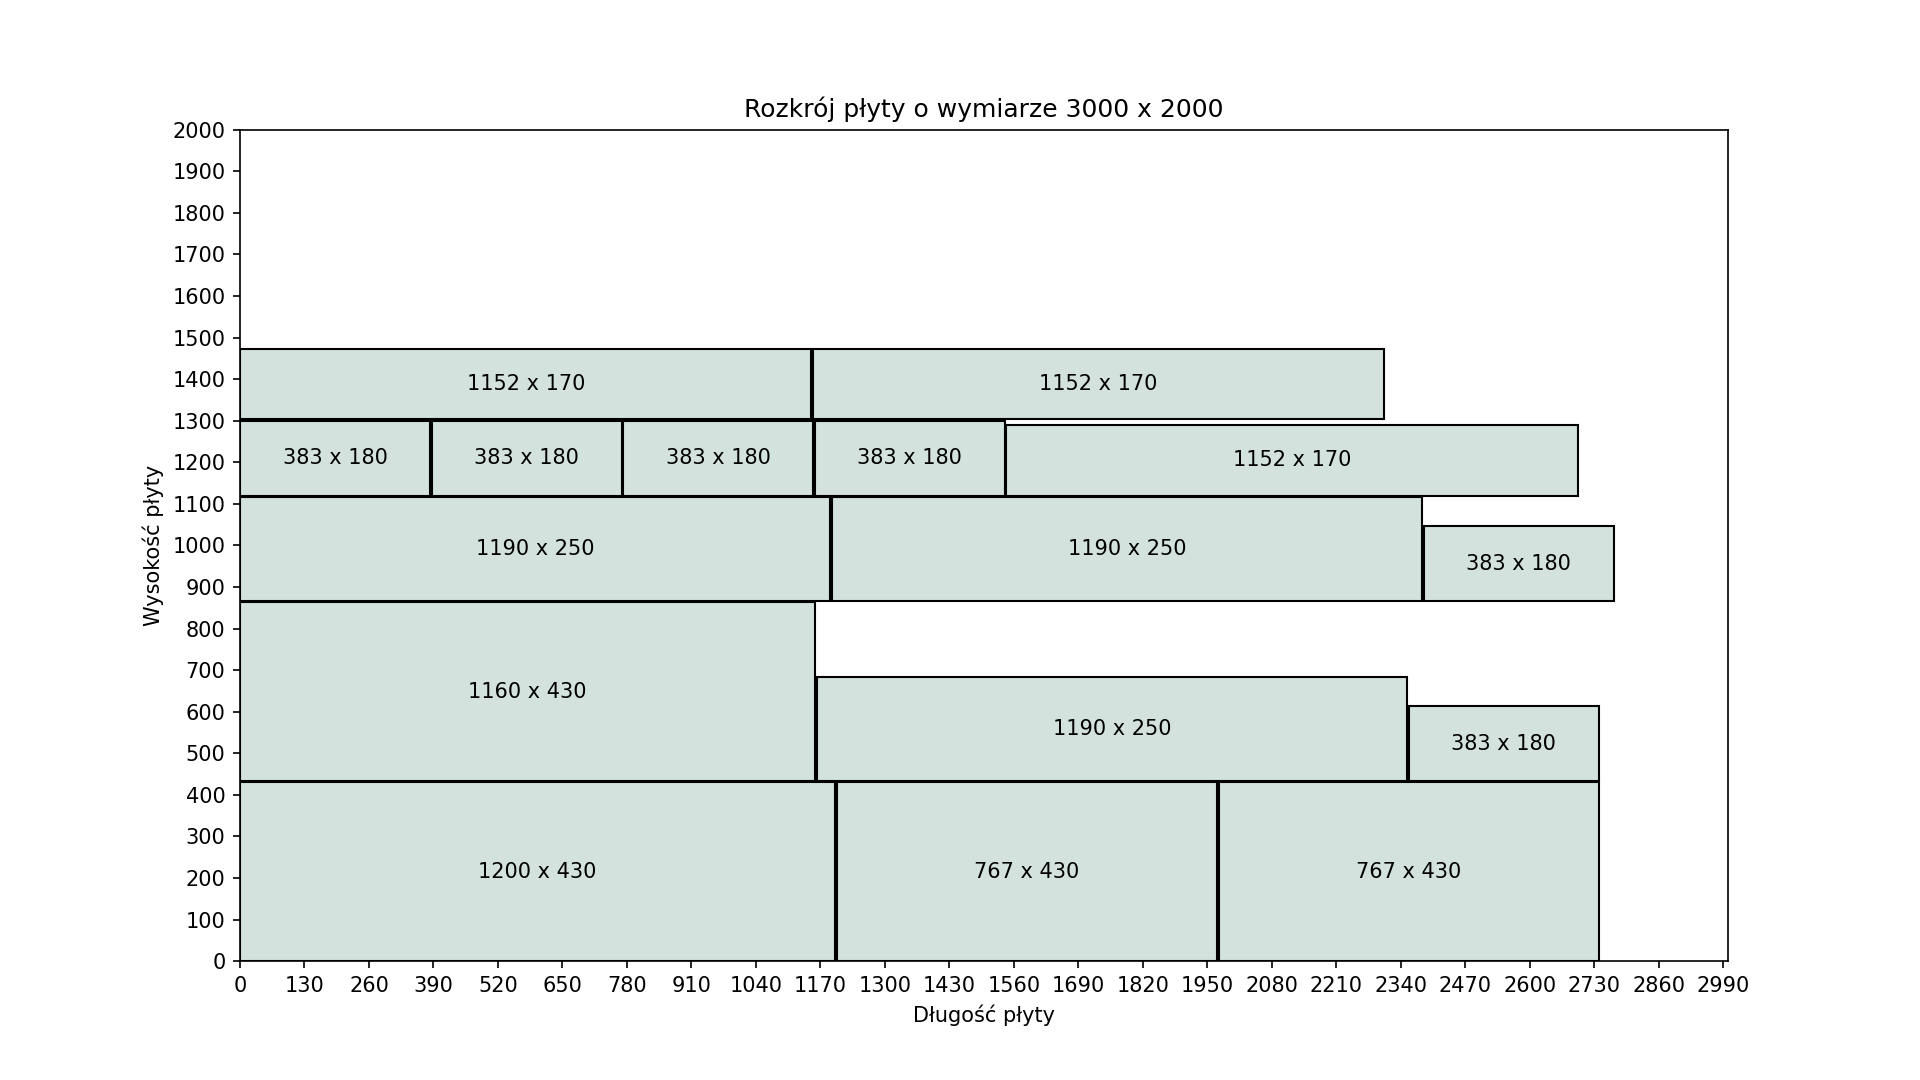
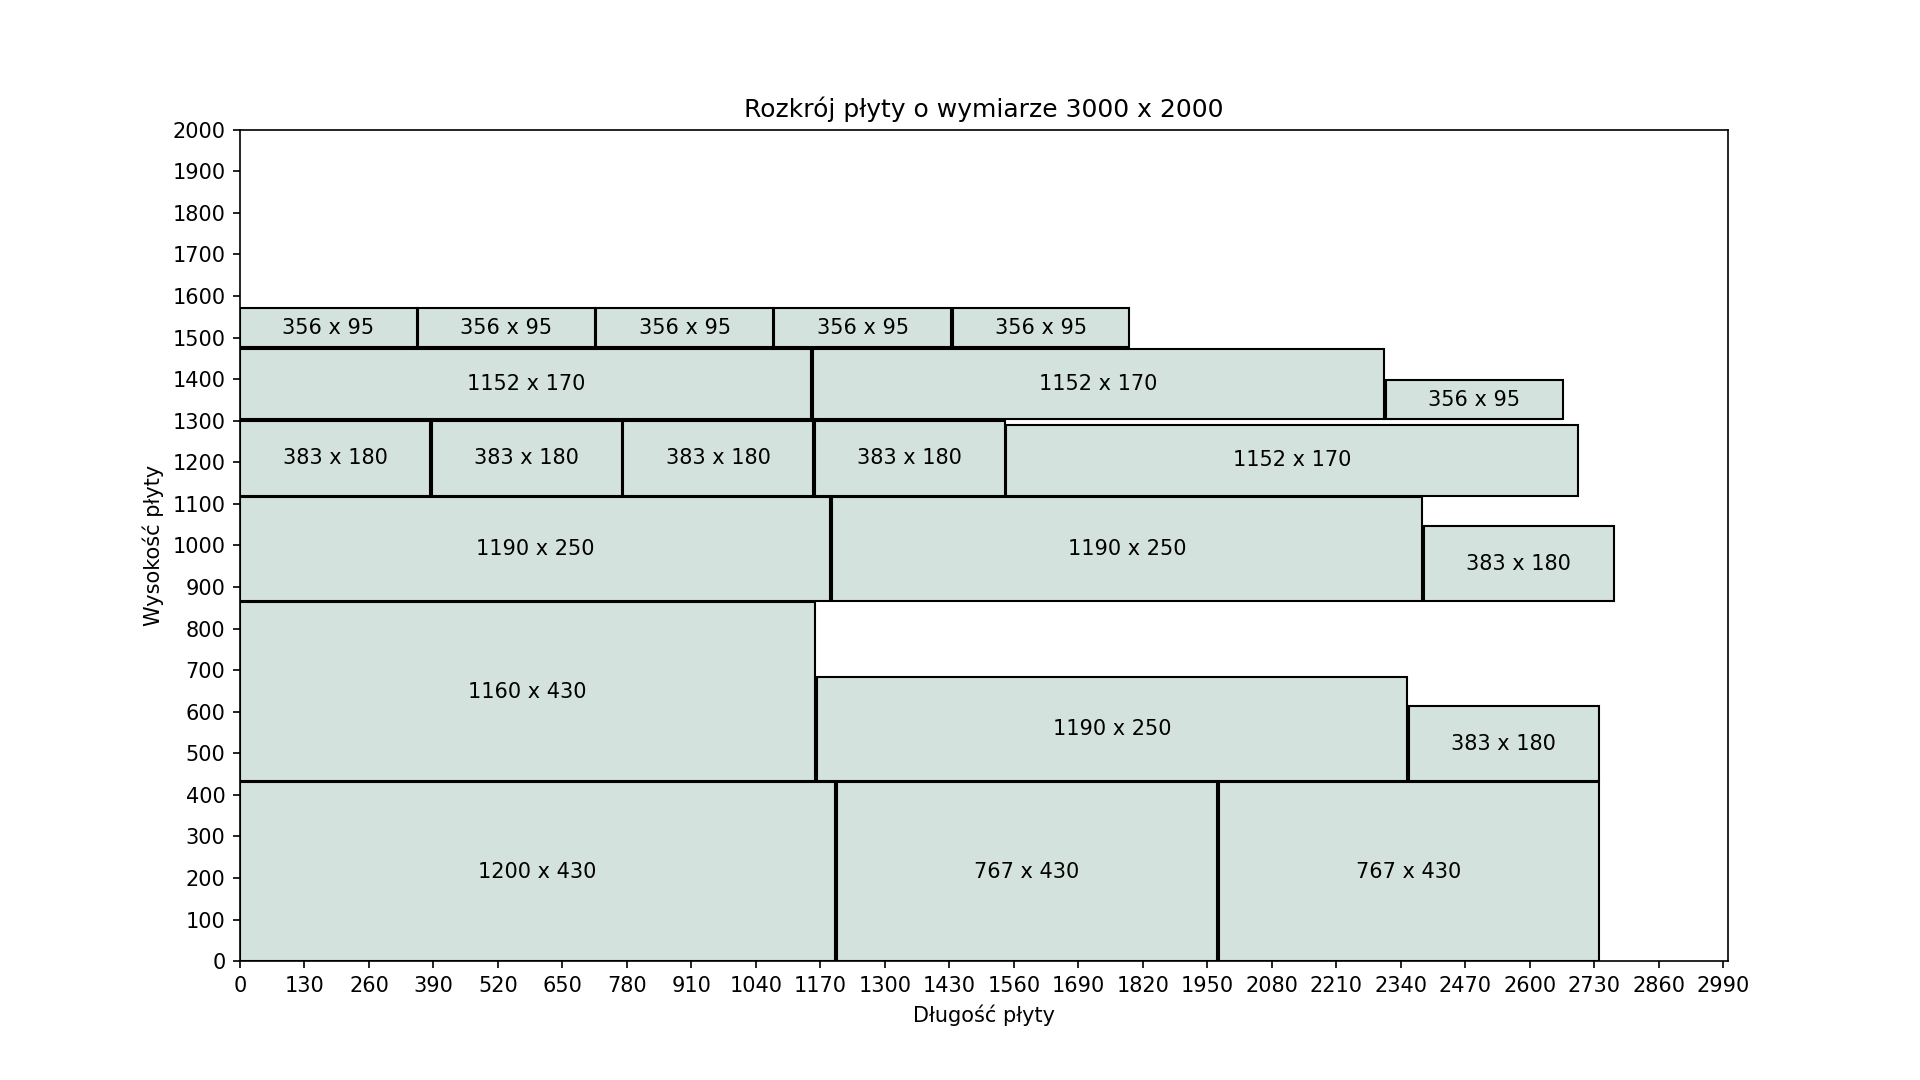
chyba to zostawie

Changed region(s): [[0.125, 0.275, 0.5938, 0.3361], [0.7188, 0.3361, 0.8125, 0.3972]]

diff --git a/AutoWood_Backend/product/cut_optimizer/png_opt_3.py b/AutoWood_Backend/product/cut_optimizer/png_opt_3.py
@@ -136,6 +136,8 @@ def define_starting_position(formats, ax):
     virtual_rows = []  # List to hold all virtual rows
     start_position_y = 0  # Starting Y position for the first row
 
+    print(formats)
+
     while formats:
         format = formats.pop(0)
         width = format[0]
@@ -177,6 +179,12 @@ def define_starting_position(formats, ax):
                 start_position_y += height + SAW
             else:
                 print(f"No space left for piece {width}x{height}!")
+
+        # Re-check earlier rows for remaining space after placing in a new row
+        for row in virtual_rows:
+            remaining_width, row_height, row_start_y = row
+            if remaining_width > 0:
+                print(f"Remaining space in row starting at Y={row_start_y}: {remaining_width} mm")
 
 
 
